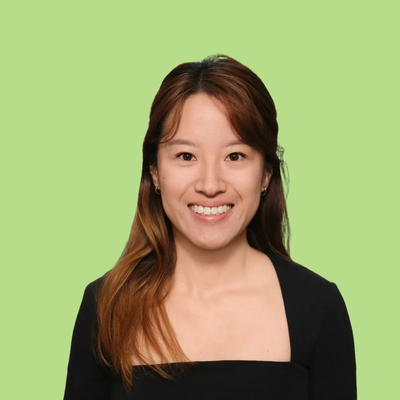
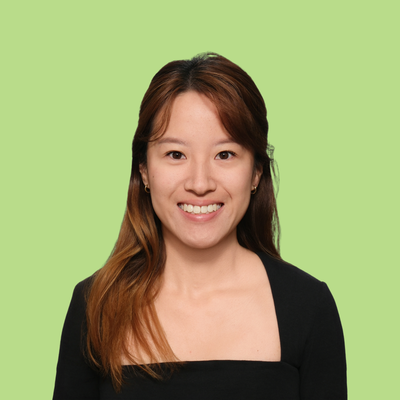
Team + signature: Spencer Hon (Quality control, Hong Kong); Jade's portrait at team size
Portraits framed on eye distance and eye line like the rest of the team
(PMP repo scripts/frame_portrait_by_eyes.py); signature portrait on the lime
background. Spencer's signature on /signatures.

Claude-Session: https://claude.ai/code/session_01H5rYh7QkoPkaKoE1UCtud9

Changed region(s): [[0.12, 0.12, 0.9, 1.0]]

diff --git a/src/app/signatures/data.ts b/src/app/signatures/data.ts
@@ -68,6 +68,12 @@ export const SIGNATURES: { id: string; name: string; email: string; html: string
   "html": "<table cellpadding=\"0\" cellspacing=\"0\" border=\"0\" style=\"border-collapse:separate;width:460px;background:#FBFFF6;border:1px solid #E3EBD5;border-radius:16px\">\n  <tr>\n    <td style=\"padding:17px 6px 11px 18px;vertical-align:middle;width:92px\">\n      <table cellpadding=\"0\" cellspacing=\"0\" border=\"0\" style=\"border-collapse:separate\"><tr>\n        <td width=\"92\" height=\"92\" align=\"center\" valign=\"middle\" style=\"width:92px;height:92px;background:#B9DC8A;border-radius:46px;text-align:center;vertical-align:middle\">\n          <img src=\"https://superfoodspartners.com/signature/portret-robbert-jan.png\" alt=\"Robbert-Jan in 't Veld\" width=\"92\" height=\"92\" style=\"display:block;width:92px;height:92px;border-radius:46px\">\n        </td>\n      </tr></table>\n    </td>\n    <td style=\"padding:17px 0 11px 0;vertical-align:middle;width:18px\">\n      <table cellpadding=\"0\" cellspacing=\"0\" border=\"0\" align=\"center\"><tr><td width=\"1\" height=\"74\" style=\"width:1px;height:74px;background:#DCE6CC;font-size:0;line-height:0\">&nbsp;</td></tr></table>\n    </td>\n    <td style=\"padding:17px 22px 11px 4px;vertical-align:middle\">\n      <div style=\"font-family:Archivo,Helvetica,Arial,sans-serif;font-weight:600;font-size:20px;color:#1C4B0C;line-height:1.15;letter-spacing:-.005em\">Robbert-Jan in 't Veld</div>\n      <div style=\"font-family:Archivo,Helvetica,Arial,sans-serif;font-size:13px;line-height:1.6;color:#3E4A33;margin-top:6px\">\n        <a href=\"mailto:robbert-jan@purematchapartners.com\" style=\"color:#3E4A33;text-decoration:none\">robbert-jan@purematchapartners.com</a><br>\n        <span>+31 6 41 69 77 09</span>\n      </div>\n      <table cellpadding=\"0\" cellspacing=\"0\" border=\"0\" style=\"border-collapse:collapse;margin-top:10px\">\n        <tr>\n          <td style=\"padding:0 14px 0 0;vertical-align:middle\"><img src=\"https://superfoodspartners.com/signature/sfp-logo.png\" alt=\"Superfoods Partners\" width=\"92\" style=\"display:block;width:92px;height:auto\"></td>\n          <td style=\"padding:0 0 0 14px;vertical-align:middle;border-left:1px solid #DCE6CC\"><img src=\"https://superfoodspartners.com/signature/pmp-logo-forest.png\" alt=\"Pure Matcha Partners\" width=\"104\" style=\"display:block;width:104px;height:auto\"></td>\n        </tr>\n      </table>\n    </td>\n  </tr>\n  <tr>\n    <td colspan=\"3\" style=\"padding:2px 12px 10px\">\n      <img src=\"https://superfoodspartners.com/signature/handtekening-balk-rond.gif\" alt=\"Now available: Ube Powder\" width=\"434\" height=\"35\" style=\"display:block;width:434px;height:35px\">\n    </td>\n  </tr>\n</table>"
  },
  {
+  "id": "spencer",
+  "name": "Spencer Hon",
+  "email": "spencer@purematchapartners.com",
+  "html": "<table cellpadding=\"0\" cellspacing=\"0\" border=\"0\" style=\"border-collapse:separate;width:460px;background:#FBFFF6;border:1px solid #E3EBD5;border-radius:16px\">\n  <tr>\n    <td style=\"padding:17px 6px 11px 18px;vertical-align:middle;width:92px\">\n      <table cellpadding=\"0\" cellspacing=\"0\" border=\"0\" style=\"border-collapse:separate\"><tr>\n        <td width=\"92\" height=\"92\" align=\"center\" valign=\"middle\" style=\"width:92px;height:92px;background:#B9DC8A;border-radius:46px;text-align:center;vertical-align:middle\">\n          <img src=\"https://superfoodspartners.com/signature/portret-spencer.png\" alt=\"Spencer Hon\" width=\"92\" height=\"92\" style=\"display:block;width:92px;height:92px;border-radius:46px\">\n        </td>\n      </tr></table>\n    </td>\n    <td style=\"padding:17px 0 11px 0;vertical-align:middle;width:18px\">\n      <table cellpadding=\"0\" cellspacing=\"0\" border=\"0\" align=\"center\"><tr><td width=\"1\" height=\"74\" style=\"width:1px;height:74px;background:#DCE6CC;font-size:0;line-height:0\">&nbsp;</td></tr></table>\n    </td>\n    <td style=\"padding:17px 22px 11px 4px;vertical-align:middle\">\n      <div style=\"font-family:Archivo,Helvetica,Arial,sans-serif;font-weight:600;font-size:20px;color:#1C4B0C;line-height:1.15;letter-spacing:-.005em\">Spencer Hon</div>\n      <div style=\"font-family:Archivo,Helvetica,Arial,sans-serif;font-size:13px;line-height:1.6;color:#3E4A33;margin-top:6px\">\n        <a href=\"mailto:spencer@purematchapartners.com\" style=\"color:#3E4A33;text-decoration:none\">spencer@purematchapartners.com</a><br>\n        <span>+852 9308 9049</span>\n      </div>\n      <table cellpadding=\"0\" cellspacing=\"0\" border=\"0\" style=\"border-collapse:collapse;margin-top:10px\">\n        <tr>\n          <td style=\"padding:0 14px 0 0;vertical-align:middle\"><img src=\"https://superfoodspartners.com/signature/sfp-logo.png\" alt=\"Superfoods Partners\" width=\"92\" style=\"display:block;width:92px;height:auto\"></td>\n          <td style=\"padding:0 0 0 14px;vertical-align:middle;border-left:1px solid #DCE6CC\"><img src=\"https://superfoodspartners.com/signature/pmp-logo-forest.png\" alt=\"Pure Matcha Partners\" width=\"104\" style=\"display:block;width:104px;height:auto\"></td>\n        </tr>\n      </table>\n    </td>\n  </tr>\n  <tr>\n    <td colspan=\"3\" style=\"padding:2px 12px 10px\">\n      <img src=\"https://superfoodspartners.com/signature/handtekening-balk-rond.gif\" alt=\"Now available: Ube Powder\" width=\"434\" height=\"35\" style=\"display:block;width:434px;height:35px\">\n    </td>\n  </tr>\n</table>"
+ },
+ {
   "id": "wanjin",
   "name": "Wanjin Liu",
   "email": "wanjin@purematchapartners.com",

diff --git a/src/data/trust.ts b/src/data/trust.ts
@@ -31,6 +31,7 @@ export const TEAM: TeamMember[] = [
   { name: "Fannie", role: "Sourcing", photo: "/team/fannie.webp", location: "Hong Kong" },
   { name: "Candy", role: "Partnerships", photo: "/team/candy.webp", location: "Hong Kong" },
   { name: "Lucinda", role: "Quality control", photo: "/team/lucinda.webp", location: "Hong Kong" },
+  { name: "Spencer", role: "Quality control", photo: "/team/spencer.webp", location: "Hong Kong" },
   { name: "Emily", role: "Sales", photo: "/team/emily.webp", location: "Hong Kong" },
   { name: "Brian", role: "Office manager, Hong Kong", photo: "/team/brian.webp", location: "Hong Kong" },
   { name: "Robbert-Jan", role: "Sales, consulting & strategy", photo: "/team/robbert-jan.webp", location: "Europe" },
